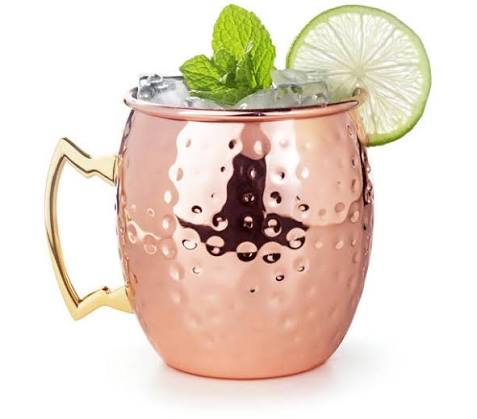
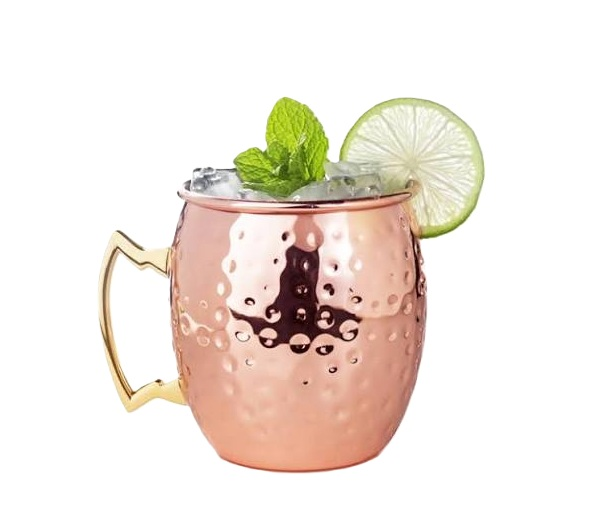
Adiciona descricoes de ingredientes para todos os 9 drinks

diff --git a/drinks.html b/drinks.html
@@ -39,62 +39,66 @@
         <div class="grid grid-3">
           <div class="card drink-card">
             <div class="drink-photo">
-              <img src="assets/drinks/aperol.jpg" alt="Aperol Spritz" onerror="this.remove()" />
+              <img src="assets/drinks/aperol.png" alt="Aperol Spritz" onerror="this.remove()" />
             </div>
             <p class="menu-item-name">Aperol Spritz</p>
+            <p class="menu-item-desc">Aperol, prosecco e um splash de água com gás, servido com rodela de laranja.</p>
           </div>
           <div class="card drink-card">
             <div class="drink-photo">
-              <img src="assets/drinks/gin_tonica.jpeg" alt="Gin Tônica" onerror="this.remove()" />
+              <img src="assets/drinks/gin_tonica.png" alt="Gin Tônica" onerror="this.remove()" />
             </div>
             <p class="menu-item-name">Gin Tônica</p>
+            <p class="menu-item-desc">Gin, água tônica e limão siciliano, finalizado com ervas frescas.</p>
           </div>
           <div class="card drink-card">
             <div class="drink-photo">
               <img src="assets/drinks/fitzgerald.jpeg" alt="Fitzgerald" onerror="this.remove()" />
             </div>
             <p class="menu-item-name">Fitzgerald</p>
+            <p class="menu-item-desc">Gin, limão, açúcar e angostura bitters — equilíbrio perfeito entre doce e amargo.</p>
           </div>
           <div class="card drink-card">
             <div class="drink-photo">
               <img src="assets/drinks/moscow_mule.jpeg" alt="Moscow Mule" onerror="this.remove()" />
             </div>
             <p class="menu-item-name">Moscow Mule</p>
+            <p class="menu-item-desc">Vodka, ginger beer e limão, servido bem gelado na caneca de cobre.</p>
           </div>
           <div class="card drink-card">
             <div class="drink-photo">
-              <img src="assets/drinks/drink-05-amora.jpg" alt="Drink a definir, rosa com amora" onerror="this.remove()" />
+              <img src="assets/drinks/mojito.png" alt="Mojito" onerror="this.remove()" />
             </div>
-            <p class="menu-item-name drink-tbd">A definir</p>
-            <p class="menu-item-desc">Drink rosa com toque de amora — ainda em degustação pelo casal.</p>
+            <p class="menu-item-name">Mojito</p>
+            <p class="menu-item-desc">Rum branco, hortelã fresca, limão, açúcar e água com gás.</p>
           </div>
           <div class="card drink-card">
             <div class="drink-photo">
-              <img src="assets/drinks/drink-06-alecrim.jpg" alt="Drink a definir, cítrico com alecrim" onerror="this.remove()" />
+              <img src="assets/drinks/caipirinha.jpg" alt="Caipirinha" onerror="this.remove()" />
             </div>
-            <p class="menu-item-name drink-tbd">A definir</p>
-            <p class="menu-item-desc">Drink cítrico com toque de alecrim — ainda em degustação pelo casal.</p>
+            <p class="menu-item-name">Caipirinha</p>
+            <p class="menu-item-desc">Cachaça, limão e açúcar — o clássico brasileiro, na medida certa.</p>
           </div>
           <div class="card drink-card">
             <div class="drink-photo">
-              <img src="assets/drinks/drink-07-limao.jpg" alt="Drink a definir, refrescante de limão" onerror="this.remove()" />
+              <img src="assets/drinks/penicilina.jpg" alt="Penicilina" onerror="this.remove()" />
             </div>
-            <p class="menu-item-name drink-tbd">A definir</p>
-            <p class="menu-item-desc">Drink refrescante de limão — ainda em degustação pelo casal.</p>
+            <p class="menu-item-name">Penicilina</p>
+            <p class="menu-item-desc">Whisky, mel, gengibre e limão siciliano, com um toque defumado de whisky Islay.</p>
           </div>
           <div class="card drink-card">
             <div class="drink-photo">
-              <img src="assets/drinks/drink-08-mojito.jpg" alt="Drink a definir, estilo mojito" onerror="this.remove()" />
+              <img src="assets/drinks/paloma.jpeg" alt="Paloma" onerror="this.remove()" />
             </div>
-            <p class="menu-item-name drink-tbd">A definir</p>
-            <p class="menu-item-desc">Estilo mojito, com hortelã e limão — ainda em degustação pelo casal.</p>
+            <p class="menu-item-name">Paloma</p>
+            <p class="menu-item-desc">Tequila, grapefruit e água com gás, servido com sal na borda do copo.</p>
           </div>
           <div class="card drink-card">
             <div class="drink-photo">
-              <img src="assets/drinks/drink-09-laranja.jpg" alt="Drink a definir, spritz alaranjado" onerror="this.remove()" />
+              <img src="assets/drinks/french_75.jpg" alt="French 75" onerror="this.remove()" />
             </div>
-            <p class="menu-item-name drink-tbd">A definir</p>
-            <p class="menu-item-desc">Spritz alaranjado com alecrim — ainda em degustação pelo casal.</p>
+            <p class="menu-item-name">French 75</p>
+            <p class="menu-item-desc">Gin, suco de limão, açúcar e espumante — elegante e borbulhante.</p>
           </div>
         </div>
 
